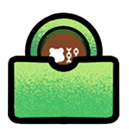
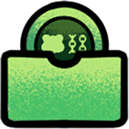
Add Discord link and update yield images
Added a Discord icon and link to the landing page and footer for improved community access. Updated factory.png, token-bera.png, and vault.png images in the yield directory.

diff --git a/src/app/landing-page/Page.tsx b/src/app/landing-page/Page.tsx
@@ -173,6 +173,25 @@ export default function LandingPage() {
           </div>
           <div
             className="flex flex-col items-center justify-center w-9 h-9 border border-base-100 cursor-pointer"
+            onClick={() =>
+              window.open('https://discord.gg/xBUmTGRns5', '_blank')
+            }
+          >
+            <svg
+              xmlns="http://www.w3.org/2000/svg"
+              width="24"
+              height="17"
+              viewBox="0 0 24 17"
+              fill="none"
+            >
+              <path
+                d="M21.0275 2.45538C19.3762 1.17536 17.3945 0.535385 15.3028 0.428711L14.9725 0.748734C16.844 1.17536 18.4954 2.02868 20.0367 3.20203C18.1651 2.24203 16.0734 1.60206 13.8715 1.38871C13.211 1.28203 12.6605 1.28203 12 1.28203C11.3395 1.28203 10.789 1.28203 10.1285 1.38871C7.9266 1.60206 5.83485 2.24203 3.9633 3.20203C5.50455 2.02868 7.15597 1.17536 9.02752 0.748734L8.69723 0.428711C6.60547 0.535385 4.62383 1.17536 2.97247 2.45538C1.10092 5.86874 0.110092 9.70873 0 13.6553C1.65135 15.362 3.9633 16.4287 6.38535 16.4287C6.38535 16.4287 7.15597 15.5754 7.7064 14.8287C6.27525 14.5087 4.95412 13.762 4.0734 12.5887C4.84403 13.0153 5.61465 13.442 6.38535 13.762C7.37617 14.1887 8.367 14.402 9.35783 14.6154C10.2386 14.722 11.1193 14.8287 12 14.8287C12.8807 14.8287 13.7614 14.722 14.6422 14.6154C15.633 14.402 16.6238 14.1887 17.6147 13.762C18.3854 13.442 19.156 13.0153 19.9266 12.5887C19.0459 13.762 17.7248 14.5087 16.2936 14.8287C16.844 15.5754 17.6147 16.4287 17.6147 16.4287C20.0367 16.4287 22.3486 15.362 24 13.6553C23.8899 9.70873 22.8991 5.86874 21.0275 2.45538ZM8.367 11.7353C7.26608 11.7353 6.27525 10.7753 6.27525 9.60206C6.27525 8.42871 7.26608 7.46871 8.367 7.46871C9.46793 7.46871 10.4587 8.42871 10.4587 9.60206C10.4587 10.7753 9.46793 11.7353 8.367 11.7353ZM15.633 11.7353C14.5321 11.7353 13.5413 10.7753 13.5413 9.60206C13.5413 8.42871 14.5321 7.46871 15.633 7.46871C16.7339 7.46871 17.7248 8.42871 17.7248 9.60206C17.7248 10.7753 16.7339 11.7353 15.633 11.7353Z"
+                fill="white"
+              />
+            </svg>
+          </div>
+          <div
+            className="flex flex-col items-center justify-center w-9 h-9 border border-base-100 cursor-pointer"
             onClick={() => window.open('https://x.com/PrimeVaultsHQ', '_blank')}
           >
             <svg

diff --git a/src/layouts/Footer.tsx b/src/layouts/Footer.tsx
@@ -6,7 +6,7 @@ import { CoreRoutes } from '@/constant/router'
 
 import prime from '@/static/images/logo/prime.svg'
 // import telegram from '@/static/images/logo/telegram.svg'
-// import discord from '@/static/images/logo/discord.svg'
+import discord from '@/static/images/logo/discord.svg'
 // import github from '@/static/images/logo/github.svg'
 import x from '@/static/images/logo/x.svg'
 import bg from '@/static/images/banner/banner.png'
@@ -16,10 +16,10 @@ const LIST_LOGO = [
   //   link: 'https://t.me/primevaults',
   //   img: telegram,
   // },
-  // {
-  //   link: 'https://discord.com/invite/primevaults',
-  //   img: discord,
-  // },
+  {
+    link: 'https://discord.gg/xBUmTGRns5',
+    img: discord,
+  },
   // {
   //   link: 'https://github.com/primevaults',
   //   img: github,
